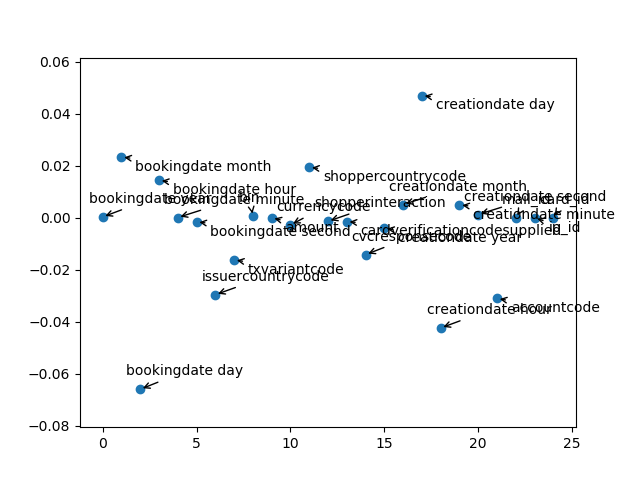
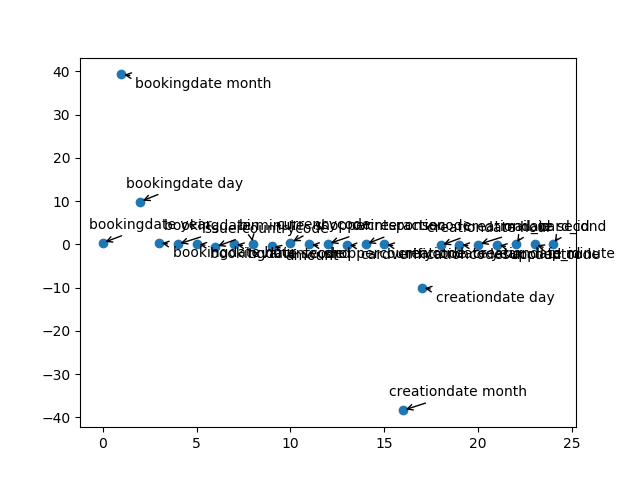
Scaled features for NN and SVM --> ~98% fraud accuracy

diff --git a/v1.py b/v1.py
@@ -3,8 +3,8 @@ import matplotlib.pyplot as plt
 import pandas
 from sklearn import svm
 from sklearn.naive_bayes import MultinomialNB
-from sklearn import preprocessing, linear_model
-from sklearn import neural_network
+from sklearn import preprocessing, linear_model, neural_network
+from sklearn.preprocessing import StandardScaler
 
 # Splits the data according to their label.
 # Returns Y where 1 represents a chargeback transaction, 0 a settled transaction and -1 a refused transaction.
@@ -109,6 +109,12 @@ def label(le, X):
             X[i] = temp
     return np.transpose(X)
 
+def label_X(X_train, X_dev, X_test):
+    le = preprocessing.LabelEncoder()
+    X_train = label(le, X_train)
+    X_dev = label(le, X_dev)
+    X_test = label(le, X_test)
+    return X_train, X_dev, X_test
 
 # Test predicted Y against actual Y of model_type (e.g. logistic) and set_type (e.g. train/dev)
 # (Old labelling scheme)
@@ -207,14 +213,14 @@ def logistic_classifier(X_train, Y_train, X_dev, Y_dev):
     classifier = simple_classifier(linear_model.LogisticRegression(class_weight='balanced'),
                                    X_train_filtered, Y_train, X_dev_filtered, Y_dev, 'Logistic')
     plot_against_names(classifier.coef_[0], 'logistic_thetas_weighted_filtered.png', names=names_filtered)
-    return
+    return classifier, significant_cols
 
 def simple_SVM_classifier(X_train, Y_train, X_dev, Y_dev):
-    classifier = simple_classifier(svm.LinearSVC(class_weight='balanced'), X_train, Y_train, X_dev, Y_dev, 'SVM')
-    return
+    return simple_classifier(svm.LinearSVC(class_weight='balanced'), X_train, Y_train, X_dev, Y_dev, 'SVM')
+
 
 def simple_nn_classifier(X_train, Y_train, X_dev, Y_dev):
-    simple_classifier(neural_network.MLPClassifier(activation='logistic'), X_train, Y_train, X_dev, Y_dev, 'NN')
+    simple_classifier(neural_network.MLPClassifier(), X_train, Y_train, X_dev, Y_dev, 'NN')
     return
 
 # Default classifier method that fits the training set to the classifier, generates a prediction
@@ -224,7 +230,7 @@ def simple_classifier(classifier, X_train, Y_train, X_dev, Y_dev, classifier_typ
     prediction_training = classifier.predict(X_train)
     test2(prediction_training, Y_train, classifier_type, 'Training')
     prediction_dev = classifier.predict(X_dev)
-    uniques = np.unique(prediction_dev)
+    # uniques = np.unique(prediction_dev)
     # print('Unique elements found:', uniques)
     test2(prediction_dev, Y_dev, classifier_type, 'Dev')
     return classifier
@@ -234,15 +240,42 @@ def simple_classifier(classifier, X_train, Y_train, X_dev, Y_dev, classifier_typ
 def naive_analysis(X, Y):
     X, Y = filter_refused_transactions(X, Y)
     X_train, Y_train, X_dev, Y_dev, X_test, Y_test = split_train_dev_test(X, Y, 0.7, 0.15)
+    X_train, X_dev, X_test = label_X(X_train, X_dev, X_test)
 
-    le = preprocessing.LabelEncoder()
-    X_train = label(le, X_train)
-    X_dev = label(le, X_dev)
+    naive_bayes_classifier(X_train, Y_train, X_dev, Y_dev)
+    classifier, significant_cols = logistic_classifier(X_train, Y_train, X_dev, Y_dev)
+    simple_SVM_classifier(X_train, Y_train, X_dev, Y_dev)
+    simple_nn_classifier(X_train, Y_train, X_dev, Y_dev)
 
-    # naive_bayes_classifier(X_train, Y_train, X_dev, Y_dev)
-    logistic_classifier(X_train, Y_train, X_dev, Y_dev)
-    # simple_SVM_classifier(X_train, Y_train, X_dev, Y_dev)
-    # simple_nn_classifier(X_train, Y_train, X_dev, Y_dev)
+    # X_test = filter_out_columns(X_test, significant_cols)
+    # prediction_test = classifier.predict(X_test)
+    # test2(prediction_test, Y_test, 'Logistic', 'Test')
+    return
+
+def scale(X_train, X_dev, X_test):
+    scaler = StandardScaler()
+    scaler.fit(X_train)
+    X_train = scaler.transform(X_train)
+    X_dev = scaler.transform(X_dev)
+    X_test = scaler.transform(X_test)
+    return X_train, X_dev, X_test
+
+def modified_classifiers(X, Y):
+    X_train, Y_train, X_dev, Y_dev, X_test, Y_test = split_train_dev_test(X, Y, 0.7, 0.15)
+
+    X_train, X_dev, X_test = label_X(X_train, X_dev, X_test)
+    X_train, X_dev, X_test = scale(X_train, X_dev, X_test)
+    classifier = simple_classifier(neural_network.MLPClassifier(solver='adam', activation='relu', verbose=True,
+                                                   hidden_layer_sizes=(100,)),
+                      X_train, Y_train, X_dev, Y_dev, 'NN')
+    test2(classifier.predict(X_test), Y_test, 'NN', 'Test')
+
+    classes, counts = np.unique(Y, return_counts=True);
+    weights = np.divide(counts, len(Y))
+
+    # SVM with scaled values also gives good results
+    classifier = simple_SVM_classifier(X_train, Y_train, X_dev, Y_dev)
+    test2(classifier.predict(X_test), Y_test, 'SVM', 'Test')
     return
 
 
@@ -272,7 +305,8 @@ def split_train_dev_test(X, Y, train_size, dev_size):
 # Main method
 def main():
     X, Y = read_data()
-    naive_analysis(X, Y)
+    # naive_analysis(X, Y)
+    modified_classifiers(X, Y)
     return
 
 main()
